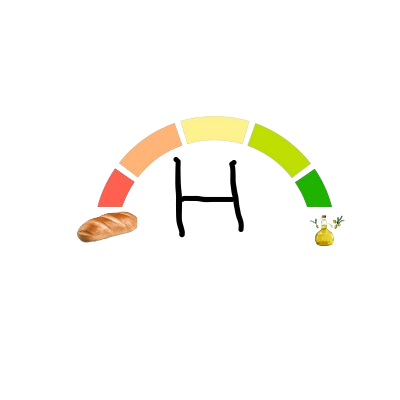
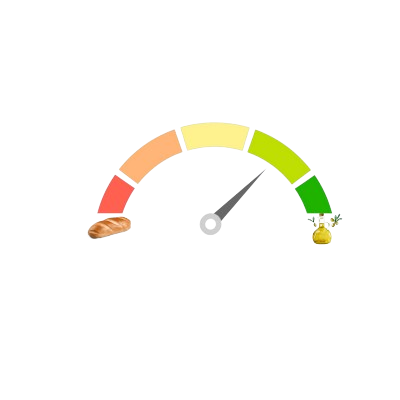
chart labels

Changed region(s): [[0.18, 0.27, 0.87, 0.63]]

diff --git a/src/components/Admin/GradientChart.js b/src/components/Admin/GradientChart.js
@@ -35,12 +35,12 @@ const GradientChart = ({ xData, data }) => {
             return (score + 20);
         } else if (score >= 41 && score <= 80) {
             return (score + 10);
-        } else if (score >= 81 && score <= 85) {
+        } else if (score >= 81 && score <= 100) {
             return (score + 5);
-        } else if (score >= 86 && score <= 90) {
-                return (score);
-        } else if (score >= 91 && score <= 100) {
-            return (score - 20);
+        // } else if (score >= 86 && score <= 90) {
+        //         return (score);
+        // } else if (score >= 91 && score <= 100) {
+        //     return (score - 10);
         } 
       }
 
@@ -93,18 +93,17 @@ const GradientChart = ({ xData, data }) => {
     //     radius: 10
     //   };
 
-
+    
       const annotation1 = {
         type: 'label',
         drawTime: 'afterDraw',
         content: getImage(data[0]),
-        xValue: 0.2,
+        xValue: 0.1,
         yValue: getYvalue(data[0]),
         width: 130,
         height: 130,
         callout: {
             display: true,
-            // position: 'left' 0-40 +20  ----- 41-80 +10 ------ 81-100 +0
         }
       };
 
@@ -124,13 +123,13 @@ const GradientChart = ({ xData, data }) => {
 
       const annotation3 = {
         type: 'label',
-        drawTime: 'afterDraw',
+        // drawTime: 'afterDraw',
         content: getImage(data[2]),
-        xValue: 1.8,
+        xValue: 1.9,
+        // xAdjust: 4,
         yValue: getYvalue(data[2]),
         width: 130,
         height: 130,
-        
         callout: {
             display: true,
             position: 'left',
@@ -157,7 +156,7 @@ const GradientChart = ({ xData, data }) => {
                         suggestedMin: 0,
                         suggestedMax: 100,
                         ticks: {
-                            crossAlign: "center",
+                            crossAlign: "far",
                             // align:'start',
                             font: {
                                 weight: 'bold',
@@ -172,7 +171,7 @@ const GradientChart = ({ xData, data }) => {
                             labelOffset:10,
                             maxRotation: 20,
                             minRotation: 20,
-                            padding:10,
+                            padding:40,
                             // align:'start',
                             font: {
                                 weight: 'bold',
@@ -190,9 +189,11 @@ const GradientChart = ({ xData, data }) => {
 
                      title: {
                         display: true,
-                        text: 'מד גמישות מטבולית', // גרף שיפור גמישות מטבולית
-                        color: '#00897b',
+                        text:'גרף שיפור גמישות מטבולית',
+                        // text: 'מד גמישות מטבולית', // גרף שיפור גמישות מטבולית
+                        color: '#384465',
                         font: {
+                            family:'Cookie',
                             weight: 'bold',
                             style:'italic',
                             size:20,
@@ -200,6 +201,7 @@ const GradientChart = ({ xData, data }) => {
                     },
 
                      annotation: {
+                        clip: false,
                         annotations: {
                             annotation1,
                             annotation2,
@@ -209,21 +211,24 @@ const GradientChart = ({ xData, data }) => {
                      
                      datalabels: {
                         anchor: 'center',
-                        backgroundColor: '#a7ffeb',
+                        // backgroundColor: '#a7ffeb',
+
+                        backgroundColor: '#384465',
+
                         borderRadius: 10 ,
-                        borderColor: 'black',
-                        borderWidth: 0, 
+                        // borderColor: '#D25A30',
+                        borderWidth: 2, 
                         borderSkipped: 'top',
                         padding: 3,
 
                         textAlign:'center',
-                        color: 'black',
+                        color: 'white',
                         align: 'bottom',
                         offset: 20,
                         opacity:1,
                         font: {
                           weight: 'bold',
-                          size:'25px',
+                          size:'30px',
                           style:'italic',
                           family:'Cookie',
                         },
